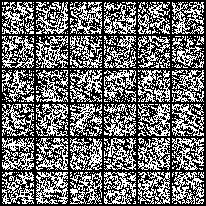
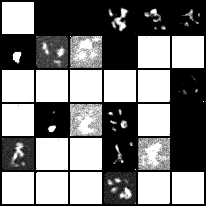
train longer

diff --git a/main.py b/main.py
@@ -116,7 +116,7 @@ trainer = Trainer(
     gradient_accumulate_every=2,  # gradient accumulation steps
     ema_decay=0.995,  # exponential moving average decay
     amp=True,  # turn on mixed precision
-    save_and_sample_every=100
+    save_and_sample_every=1000
 )
 
 trainer.train()
